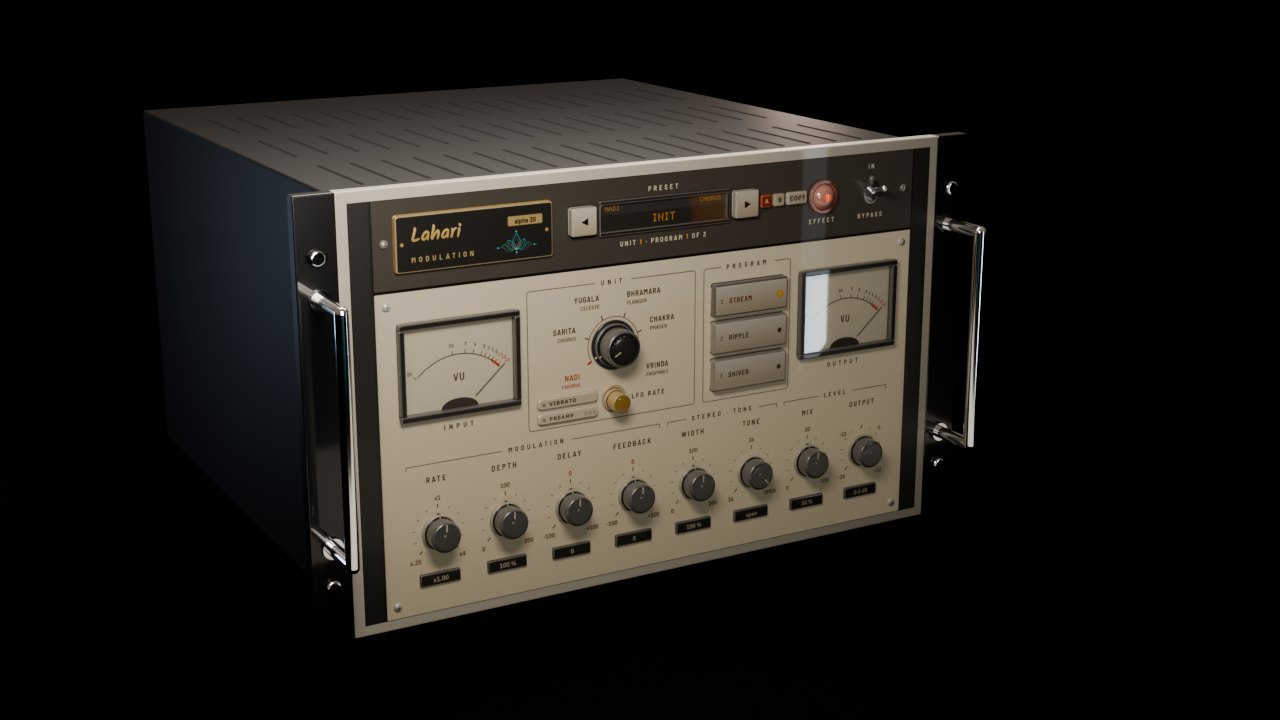
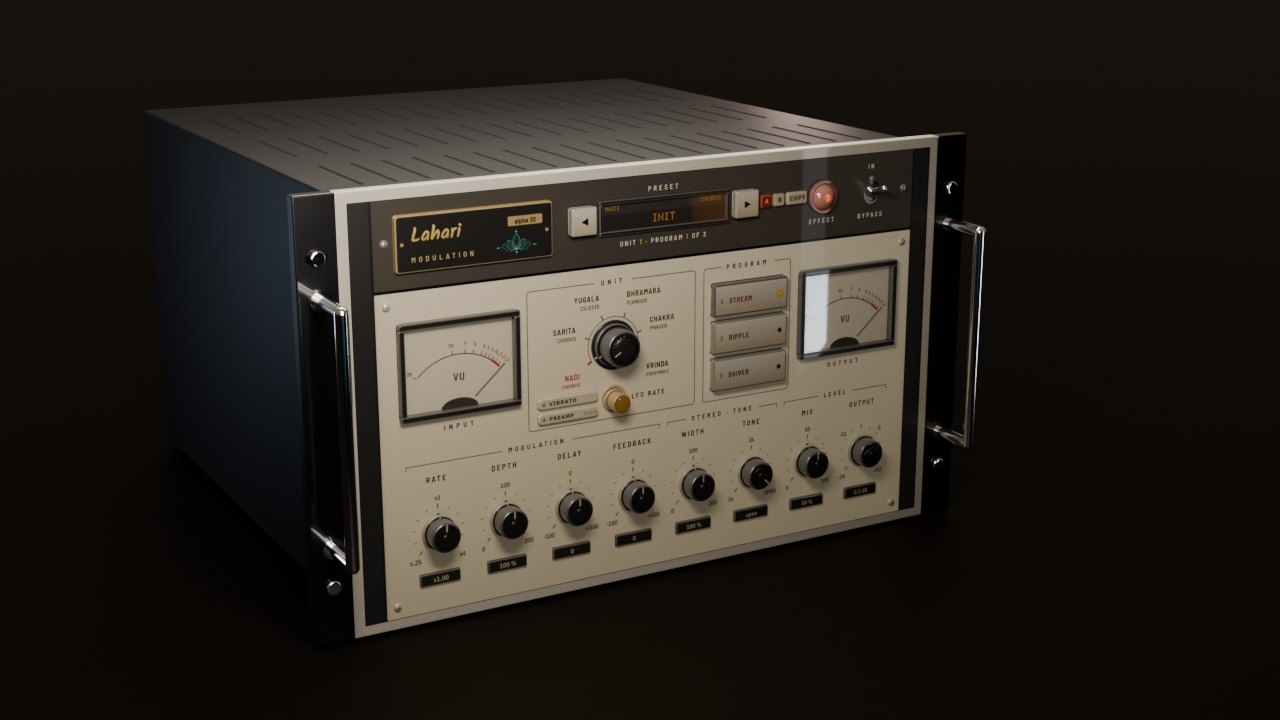
Agni, Gālana and Lahari heroes: the racks stand on a dark oak desk (no softbox or reflector card on it), not in a black void

diff --git a/tools/lahari_rack.py b/tools/lahari_rack.py
@@ -223,7 +223,14 @@ for o in list(bpy.data.objects):
 rig.rotation_euler = (math.pi / 2, 0, 0)
 FLOOR = -CH / 2 - 0.22 * U
 rig.location = (0, 0, -FLOOR)
-M_GROUND = mat("ground", (0.006, 0.005, 0.006), rough=0.6); M_GROUND.node_tree.nodes["Principled BSDF"].inputs["Specular IOR Level"].default_value = 0.0
+# the desk (owner 2026-11-25: a black void under the rack read as unreal): dark oiled oak, long fibres along X, a soft sheen
+M_GROUND = bpy.data.materials.new("ground"); M_GROUND.use_nodes = True; _dt = M_GROUND.node_tree; _db = _dt.nodes["Principled BSDF"]
+_nz = _dt.nodes.new("ShaderNodeTexNoise"); _nz.inputs["Scale"].default_value = 1.0; _nz.inputs["Detail"].default_value = 12.0; _nz.inputs["Roughness"].default_value = 0.62
+_tc = _dt.nodes.new("ShaderNodeTexCoord"); _mp = _dt.nodes.new("ShaderNodeMapping"); _mp.inputs["Scale"].default_value = (0.16, 4.5, 1.0)
+_dt.links.new(_tc.outputs["Object"], _mp.inputs["Vector"]); _dt.links.new(_mp.outputs["Vector"], _nz.inputs["Vector"])
+_cr = _dt.nodes.new("ShaderNodeValToRGB"); _cr.color_ramp.elements[0].color = (0.005, 0.003, 0.002, 1); _cr.color_ramp.elements[1].color = (0.020, 0.012, 0.008, 1)
+_dt.links.new(_nz.outputs["Fac"], _cr.inputs["Fac"]); _dt.links.new(_cr.outputs["Color"], _db.inputs["Base Color"])
+_db.inputs["Roughness"].default_value = 0.6; _db.inputs["Specular IOR Level"].default_value = 0.25   # matte enough that no softbox mirrors in it
 bpy.ops.mesh.primitive_plane_add(size=300, location=(0, 0, 0)); bpy.context.object.data.materials.append(M_GROUND)
 def warea(name, loc, size, power, color, target=(0, 6, 3)):
     loc = tuple(v * U for v in loc); target = tuple(v * U for v in target)
@@ -233,6 +240,14 @@ def warea(name, loc, size, power, color, target=(0, 6, 3)):
 warea("top", (0, 6, 16), (16, 10), 2000, (1.0, 0.93, 0.85))
 warea("rimR", (16, 18, 7), (2, 9), 900, (1.0, 0.75, 0.65))
 warea("rimL", (-16, 14, 5), (2, 7), 350, (0.6, 0.75, 1.0))
+# the rims and the lid softbox light the rack only: on the desk the softbox threw the rack's shadow forward with a hard far edge
+_desk = bpy.data.collections.new("desk_only")
+for _o in bpy.data.objects:
+    if _o.type == "MESH" and _o.active_material is not None and _o.active_material.name == "ground": _desk.objects.link(_o)
+for _o in bpy.data.objects:
+    if _o.type == "LIGHT" and _o.name in ("rimR", "rimL", "top"):
+        _o.light_linking.receiver_collection = _desk
+        for _c in _desk.collection_objects: _c.light_linking.link_state = "EXCLUDE"
 sc.view_settings.exposure = float(os.environ.get("EXPOSURE", "0.35"))
 def card(loc, size, strength, warm=(1.0, 0.9, 0.78)):
     loc = tuple(v * U for v in loc)
@@ -246,7 +261,7 @@ def card(loc, size, strength, warm=(1.0, 0.9, 0.78)):
     nt.links.new(mx_.outputs[0], o.inputs[0]); c.data.materials.append(m)
     c.visible_camera = False; c.visible_diffuse = False; c.visible_shadow = False; return c
 card((-9, -15, 9), (11, 7), 8.0); card((12, -12, 5), (4, 10), 5.0, (0.8, 0.88, 1.0))
-card((0.5, -7.5, 0.02), (22, 7), 0.6).rotation_euler = (0, 0, 0)
+# (the reflector card that lay on the table is gone: on the oak desk it showed as a hard-edged lighter patch)
 wn = sc.world.node_tree; N = wn.nodes; Lk = wn.links
 bg = N["Background"]; lp = N.new("ShaderNodeLightPath"); env = N.new("ShaderNodeBackground"); env.inputs[0].default_value = (0.55, 0.45, 0.36, 1)
 mxw = N.new("ShaderNodeMixShader"); Lk.new(lp.outputs["Is Glossy Ray"], mxw.inputs[0]); Lk.new(bg.outputs[0], mxw.inputs[1]); Lk.new(env.outputs[0], mxw.inputs[2])
